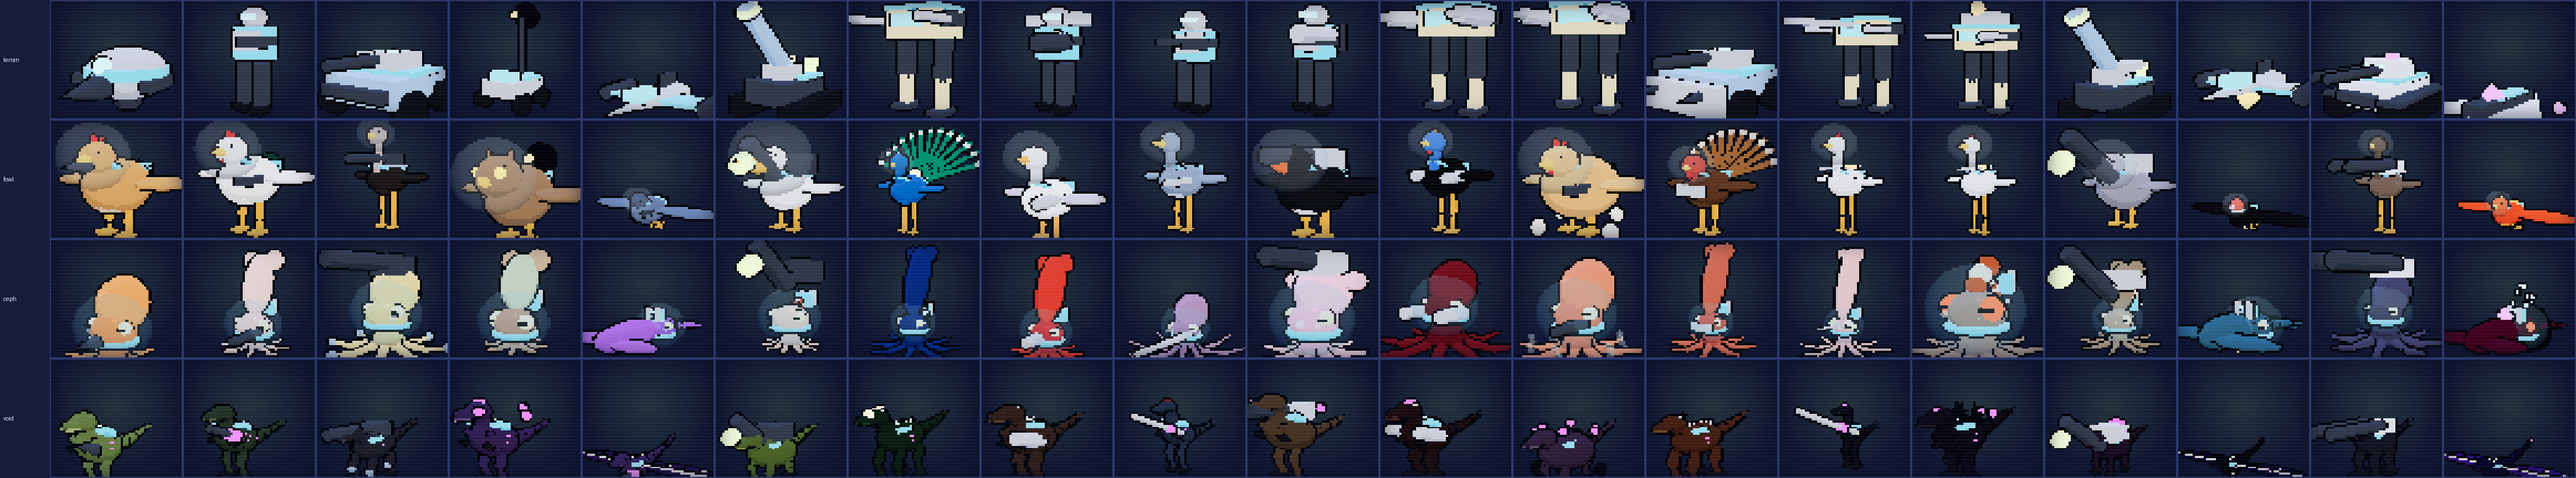
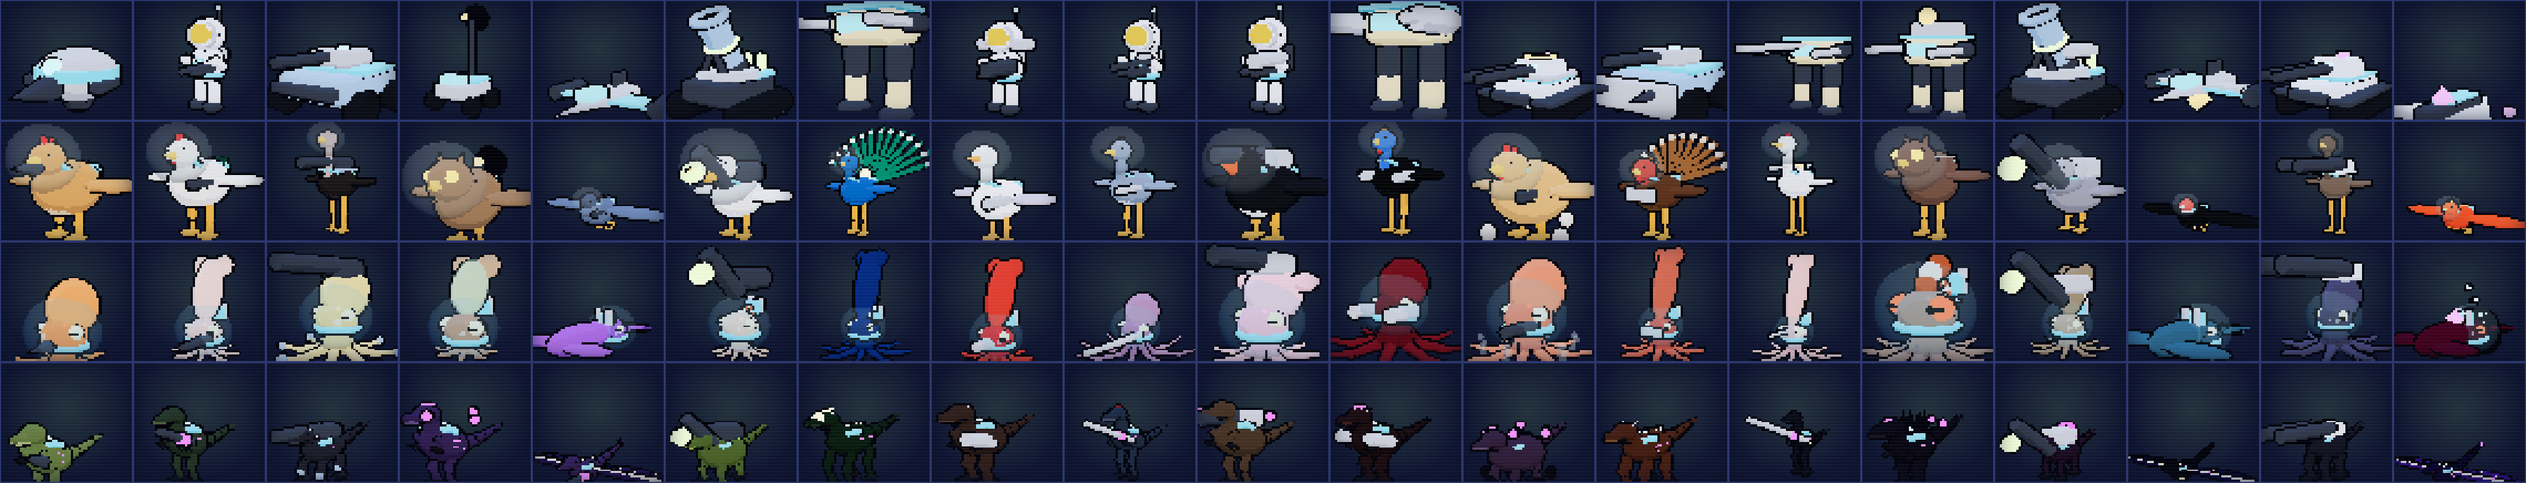
Cuter, rounder models: astronaut trooper, proper mortar
Every box in every model is now a rounded block and cylinders get at
least 16 sides. The human trooper is a chibi astronaut with a big
helmet and gold visor; the mortar is a fat tube on a base plate with a
bipod; the walker has stubby legs; building pads are soft and lighter.

Claude-Session: https://claude.ai/code/session_01EJ8uiVfq7hyD8smDWGm7RG

diff --git a/public/index.html b/public/index.html
@@ -1146,6 +1146,7 @@ if(window.startSplash&&!/nointro/.test(location.search)&&(()=>{ try{ return loca
 <script type="importmap">{"imports":{"three":"https://cdn.jsdelivr.net/npm/three@0.160.0/build/three.module.js","three/addons/":"https://cdn.jsdelivr.net/npm/three@0.160.0/examples/jsm/"}}</script>
 <script type="module">
 import * as THREE from 'three';
+import { RoundedBoxGeometry } from 'three/addons/geometries/RoundedBoxGeometry.js';
 
 /* =====================================================================
    ANDROMEDAS: RTS on a spherical asteroid with a diggable layered crust
@@ -1723,7 +1724,7 @@ const UDEF = {
     desc:'Helium-lift gunship. Flies over mounds and ridges. Rovers and mortars cannot hit it.' },
   mortar: { name:'Radium mortar', hp:120, speed:2.6, dmg:24, range:11, minRange:3, cd:3.8, splash:1.5, sight:9, supply:3, cost:{gold:90,ore:80,rad:20}, time:26, r:0.55, h:1.1, icon:'mortar', hot:'Q', shot:'mortar', groundOnly:true,
     desc:'Radium-fired artillery. Out-ranges everything, but cannot fire at targets closer than 3 or at aircraft.' },
-  walker: { name:'Aurum walker', hp:450, speed:2.3, dmg:34, range:7.5, cd:2.3, splash:1.4, sight:10.5, supply:6, cost:{gold:150,ore:200,ti:30,pt:25}, time:34, r:0.82, h:2.2, icon:'walker', hot:'W', shot:'beam',
+  walker: { name:'Aurum walker', hp:450, speed:2.3, dmg:34, range:7.5, cd:2.3, splash:1.4, sight:10.5, supply:6, cost:{gold:150,ore:200,ti:30,pt:25}, time:34, r:0.82, h:1.9, icon:'walker', hot:'W', shot:'beam',
     desc:'Platinum-cored siege walker. Long-range beam that flattens structures.' },
   breacher: { name:'Breacher', hp:110, speed:3.5, dmg:12.5, range:2.8, cd:1.1, splash:0.7, sight:7, supply:2, cost:{gold:60,ore:60}, time:18, r:0.36, h:1.35, icon:'breacher', hot:'W', shot:'bullet', model:'marine', scale:1.18, spec:true,
     desc:'Close-assault trooper with a scatter cannon. Tough and short-ranged; shreds infantry up close.' },
@@ -1787,6 +1788,9 @@ function mk(g, m, x=0,y=0,z=0, parent){ const o=new THREE.Mesh(g,m); o.position.
 const MAT = {
   hull: std({ color:0xb9bec4, roughness:0.45, metalness:0.6 }),
   hullDark: std({ color:0x3a3f46, roughness:0.6, metalness:0.5 }),
+  pad: std({ color:0x5a6488, roughness:0.75, metalness:0.2 }),
+  suit: std({ color:0xf1efff, roughness:0.7, metalness:0.05 }),
+  visor: std({ color:0x6a4a10, emissive:0xffcf3a, emissiveIntensity:0.55, roughness:0.15, metalness:0.7 }),
   rubber: std({ color:0x1b1c1f, roughness:0.95 }),
   ti: std({ color:0x8fb3d9, roughness:0.3, metalness:0.85, envMapIntensity:1.3 }),
   pt: std({ color:0xe9d49a, roughness:0.22, metalness:0.92, envMapIntensity:1.5 }),
@@ -1803,8 +1807,9 @@ const MAT = {
   ir: std({ color:0xdfe6f5, roughness:0.18, metalness:0.95, envMapIntensity:1.6 }),
   xen: std({ color:0x2a0f40, emissive:0xb86bff, emissiveIntensity:2.4, roughness:0.15, metalness:0.3 }),
 };
-const box=(w,h,d)=>geo(`b${w},${h},${d}`,()=>new THREE.BoxGeometry(w,h,d));
-const cyl=(t,b,h,s=16)=>geo(`c${t},${b},${h},${s}`,()=>new THREE.CylinderGeometry(t,b,h,s));
+/* every box is a soft, rounded block: corners take about a quarter of the shortest side, so nothing reads as a crate */
+const box=(w,h,d)=>geo(`b${w},${h},${d}`,()=>{ const r=Math.min(w,h,d)*0.28; return r<0.012?new THREE.BoxGeometry(w,h,d):new RoundedBoxGeometry(w,h,d,2,r); });
+const cyl=(t,b,h,s=16)=>{ s=Math.max(s,16); return geo(`c${t},${b},${h},${s}`,()=>new THREE.CylinderGeometry(t,b,h,s)); };
 const sph=(r,w=16,h=12)=>geo(`s${r},${w},${h}`,()=>new THREE.SphereGeometry(r,w,h));
 
 /* path units reuse a base body, then add their own kit and metal accents */
@@ -1824,9 +1829,9 @@ function decorateUnit(type,r,t){
     const ring=mk(geo('megaRing',()=>new THREE.TorusGeometry(0.34,0.05,6,24).rotateX(Math.PI/2)),glow,0,top*0.95,0,g); ring.castShadow=false; parts.halo=ring;
     if(type==='bastion'){ const dome=new THREE.Mesh(geo('shieldDome',()=>new THREE.SphereGeometry(1.35,20,10,0,Math.PI*2,0,Math.PI/2)),new THREE.MeshBasicMaterial({ color:TEAMC[t].clone().multiplyScalar(0.8), transparent:true, opacity:0.12, depthWrite:false, side:THREE.DoubleSide })); dome.position.y=0.3; g.add(dome); parts.dome=dome; mk(box(1.3,0.1,1.3),acc,0,1.0,0,g); }
     else if(type==='rhino'){ mk(box(1.0,0.34,0.14),acc,0,0.36,0.74,g); for(const s of [-1,1]) mk(geo('horn',()=>new THREE.ConeGeometry(0.07,0.32,6).rotateX(Math.PI/2)),MAT.hullDark,0.3*s,0.42,0.9,g); }
-    else if(type==='warlord'){ for(const s of [-1,1]) mk(geo('wlGun',()=>new THREE.CylinderGeometry(0.12,0.15,0.7,10).rotateX(Math.PI/2)),acc,0.62*s,1.65,0.55,g); }
-    else if(type==='longbow'){ mk(box(0.1,0.1,2.2),acc,0,1.75,0.9,g); mk(box(0.24,0.16,0.3),glow,0,1.75,-0.2,g); }
-    else if(type==='sentinel'){ mk(box(0.8,0.3,0.6),acc,0,2.0,0,g); const d=mk(sph(0.16,12,8),glow,0,2.25,0.3,g); d.castShadow=false; }
+    else if(type==='warlord'){ for(const s of [-1,1]) mk(geo('wlGun',()=>new THREE.CylinderGeometry(0.12,0.15,0.7,10).rotateX(Math.PI/2)),acc,0.62*s,1.35,0.55,g); }
+    else if(type==='longbow'){ mk(box(0.1,0.1,2.2),acc,0,1.45,0.9,g); mk(box(0.24,0.16,0.3),glow,0,1.45,-0.2,g); }
+    else if(type==='sentinel'){ mk(box(0.8,0.3,0.6),acc,0,1.7,0,g); const d=mk(sph(0.16,12,8),glow,0,1.95,0.3,g); d.castShadow=false; }
     else if(type==='inferno'){ mk(box(0.5,0.12,0.5),acc,0,0.75,-0.1,g); }
     else if(type==='stormwing'){ const k=mk(geo('swCore',()=>new THREE.OctahedronGeometry(0.2,0)),glow,0,-0.12,0,body); k.castShadow=false; mk(box(1.6,0.04,0.3),acc,0,0.04,-0.15,body); }
     else if(type==='juggernaut'||type==='seraph'){ /* own model already */ }
@@ -1856,12 +1861,22 @@ function buildUnitModel0(type,t){
     const jet=mk(geo('jet',()=>new THREE.CircleGeometry(0.085,12).rotateX(Math.PI/2)),MAT.glow[t],0,-0.255,0,body); jet.castShadow=false;
     const cargo=mk(geo('cargoG',()=>new THREE.DodecahedronGeometry(0.14,0)),MAT.cargo[0],0,0.17,-0.17,body); cargo.visible=false; P.cargo=cargo;
   } else if(type==='marine'){
-    const legs=[]; for(const s of [-1,1]){ const hip=new THREE.Group(); hip.position.set(0.1*s,0.56,0); g.add(hip); mk(box(0.12,0.5,0.14),MAT.hullDark,0,-0.25,0,hip); mk(box(0.14,0.08,0.2),MAT.rubber,0,-0.52,0.03,hip); legs.push(hip); } P.legs=legs;
-    const up=new THREE.Group(); up.position.y=0.56; g.add(up); P.body=up;
-    mk(box(0.38,0.36,0.24),MAT.team[t],0,0.22,0,up); mk(box(0.3,0.22,0.06),MAT.hull,0,0.24,0.13,up);
-    mk(box(0.26,0.3,0.14),MAT.hullDark,0,0.22,-0.18,up);
-    mk(sph(0.13,14,10),MAT.hull,0,0.5,0,up); mk(box(0.18,0.06,0.06),MAT.glow[t],0,0.51,0.1,up);
-    mk(box(0.07,0.09,0.55),MAT.hullDark,0.2,0.24,0.2,up); P.muzzle=new THREE.Vector3(0.2,0.8,0.5);
+    /* a chibi astronaut: stubby suited legs, a puffy suit, a life-support pack and a big round helmet with a gold visor */
+    const legs=[]; for(const s of [-1,1]){ const hip=new THREE.Group(); hip.position.set(0.1*s,0.4,0); g.add(hip);
+      mk(geo('aLeg',()=>new THREE.CapsuleGeometry(0.075,0.16,4,10).translate(0,-0.16,0)),MAT.suit,0,0,0,hip);
+      mk(geo('aBoot',()=>new THREE.SphereGeometry(0.1,12,8).scale(1,0.7,1.35)),MAT.hullDark,0,-0.33,0.03,hip); legs.push(hip); } P.legs=legs;
+    const up=new THREE.Group(); up.position.y=0.4; g.add(up); P.body=up;
+    mk(geo('aTorso',()=>new THREE.SphereGeometry(0.21,16,12).scale(1,1.08,0.85)),MAT.suit,0,0.2,0,up);
+    mk(geo('aBelt',()=>new THREE.TorusGeometry(0.18,0.035,6,18).rotateX(Math.PI/2)),MAT.team[t],0,0.08,0,up).scale.set(1,1,0.86);
+    mk(box(0.16,0.11,0.05),MAT.team[t],0,0.24,0.16,up); mk(sph(0.025,8,6),MAT.glow[t],0.04,0.25,0.19,up); mk(sph(0.025,8,6),MAT.ptGlow,-0.04,0.25,0.19,up);
+    mk(box(0.26,0.3,0.14),MAT.hull,0,0.24,-0.19,up); for(const x of [-0.07,0.07]) mk(cyl(0.045,0.045,0.26,10),MAT.team[t],x,0.25,-0.28,up);
+    for(const s of [-1,1]) mk(geo('aArm',()=>new THREE.CapsuleGeometry(0.06,0.14,4,10).rotateX(1.1)),MAT.suit,0.2*s,0.22,0.08,up);
+    mk(geo('aHelm',()=>new THREE.SphereGeometry(0.21,20,14)),MAT.suit,0,0.56,0,up);
+    mk(geo('aVisor',()=>new THREE.SphereGeometry(0.175,18,12,Math.PI*0.08,Math.PI*0.84,Math.PI*0.25,Math.PI*0.42)),MAT.visor,0,0.56,0.05,up);
+    mk(geo('aRim',()=>new THREE.TorusGeometry(0.17,0.03,6,20)),MAT.hull,0,0.56,0.11,up).scale.set(1,0.85,1);
+    mk(cyl(0.012,0.012,0.18,6),MAT.hullDark,0.12,0.8,-0.04,up); mk(sph(0.03,8,6),MAT.glow[t],0.12,0.9,-0.04,up);
+    mk(box(0.08,0.1,0.42),MAT.hullDark,0.13,0.17,0.24,up); mk(cyl(0.03,0.03,0.16,8).clone().rotateX(Math.PI/2),MAT.hullDark,0.13,0.19,0.52,up);
+    P.muzzle=new THREE.Vector3(0.13,0.6,0.6);
   } else if(type==='rover'){
     mk(box(0.95,0.32,1.25),MAT.ti,0,0.42,0,g); mk(box(0.97,0.06,0.8),MAT.team[t],0,0.6,-0.1,g);
     mk(box(0.8,0.12,0.2),MAT.hullDark,0,0.42,0.66,g);
@@ -1888,23 +1903,33 @@ function buildUnitModel0(type,t){
     mk(box(0.06,0.3,0.3),MAT.hullDark,0,0.15,-0.4,hull);
     P.muzzle=new THREE.Vector3(0,0,0.8);
   } else if(type==='mortar'){
-    for(const s of [-1,1]) mk(box(0.22,0.26,1.1),MAT.rubber,0.38*s,0.16,0,g);
-    mk(box(0.6,0.3,0.95),MAT.hullDark,0,0.38,0,g); mk(box(0.62,0.05,0.5),MAT.team[t],0,0.55,-0.15,g);
-    for(const x of [-0.18,0.18]) mk(cyl(0.08,0.08,0.34,10),MAT.radGlow,x,0.62,-0.32,g);
-    const tur=new THREE.Group(); tur.position.set(0,0.58,0.1); g.add(tur); P.turret=tur;
-    mk(box(0.36,0.2,0.36),MAT.hull,0,0.05,0,tur);
-    const bar=new THREE.Group(); bar.position.set(0,0.12,0); bar.rotation.x=-0.85; tur.add(bar); P.barrel=bar;
-    mk(geo('mbar',()=>new THREE.CylinderGeometry(0.1,0.13,1.0,12).translate(0,0.5,0).rotateX(Math.PI/2)),MAT.ti,0,0,0,bar);
-    mk(cyl(0.135,0.135,0.08,12).clone().rotateX(Math.PI/2),MAT.radGlow,0,0,0.95,bar);
-    P.muzzle=new THREE.Vector3(0,1.4,0.8);
+    /* a proper mortar: a short, fat, wide-mouthed tube set steeply up on a round base plate, held by a bipod, riding a little tracked carriage */
+    for(const s of [-1,1]){ mk(geo('mTrack',()=>new THREE.CapsuleGeometry(0.15,0.72,4,12).rotateX(Math.PI/2)),MAT.rubber,0.36*s,0.17,0,g);
+      for(const z of [-0.3,0,0.3]) mk(geo('mBogie',()=>new THREE.CylinderGeometry(0.09,0.09,0.06,12).rotateZ(Math.PI/2)),MAT.hullDark,0.45*s,0.15,z,g); }
+    mk(box(0.6,0.24,0.9),MAT.hullDark,0,0.36,0,g); mk(box(0.62,0.06,0.42),MAT.team[t],0,0.5,-0.2,g);
+    for(const x of [-0.17,0,0.17]){ mk(geo('mShell',()=>new THREE.CapsuleGeometry(0.055,0.12,4,10)),MAT.radGlow,x,0.62,-0.32,g); }
+    const tur=new THREE.Group(); tur.position.set(0,0.5,0.12); g.add(tur); P.turret=tur;
+    mk(geo('mPlate',()=>new THREE.CylinderGeometry(0.3,0.33,0.07,20)),MAT.hull,0,0.03,-0.08,tur);
+    const bar=new THREE.Group(); bar.position.set(0,0.1,-0.12); bar.rotation.x=-1.0; tur.add(bar); P.barrel=bar;
+    mk(geo('mBreech',()=>new THREE.SphereGeometry(0.16,16,10).scale(1,1,1.1)),MAT.hullDark,0,0,0,bar);
+    mk(geo('mTube',()=>new THREE.CylinderGeometry(0.15,0.15,0.62,18,1,true).translate(0,0.31,0).rotateX(Math.PI/2)),MAT.ti,0,0,0,bar);
+    mk(geo('mBore',()=>new THREE.CircleGeometry(0.14,18)),MAT.rubber,0,0,0.61,bar);
+    mk(geo('mLip',()=>new THREE.TorusGeometry(0.155,0.04,8,20)),MAT.ti,0,0,0.62,bar);
+    mk(geo('mBand',()=>new THREE.TorusGeometry(0.155,0.03,6,20)),MAT.radGlow,0,0,0.3,bar);
+    /* bipod: two legs from under the tube's middle splay down to the deck, whatever the elevation */
+    for(const s of [-1,1]){ const dir=new THREE.Vector3(0.45*s,-Math.cos(1.0),-Math.sin(1.0)).normalize();
+      const leg=mk(geo('mBipod',()=>new THREE.CylinderGeometry(0.028,0.028,0.4,6).translate(0,-0.2,0)),MAT.hullDark,0,-0.12,0.34,bar); leg.quaternion.setFromUnitVectors(new THREE.Vector3(0,-1,0),dir);
+      mk(sph(0.045,8,6),MAT.hullDark,0,-0.12,0.34,bar).position.addScaledVector(dir,0.4); }
+    P.muzzle=new THREE.Vector3(0,1.25,0.6);
   } else if(type==='walker'){
-    const hip=new THREE.Group(); hip.position.y=1.35; g.add(hip); P.body=hip;
+    const hip=new THREE.Group(); hip.position.y=1.05; g.add(hip); P.body=hip;
     mk(box(0.95,0.5,0.85),MAT.pt,0,0.25,0,hip); mk(box(1.0,0.08,0.9),MAT.team[t],0,0.52,0,hip);
     mk(box(0.55,0.22,0.12),MAT.glass,0,0.3,0.45,hip); const core=mk(sph(0.17,14,10),MAT.ptGlow,0,0.2,-0.45,hip); core.castShadow=false; P.core=core;
     for(const s of [-1,1]){ mk(box(0.18,0.2,0.4),MAT.hullDark,0.6*s,0.3,0.1,hip); mk(geo('wcan',()=>new THREE.CylinderGeometry(0.06,0.06,0.9,10).rotateX(Math.PI/2)),MAT.hull,0.6*s,0.3,0.6,hip); }
-    const legs=[]; for(const s of [-1,1]){ const th=new THREE.Group(); th.position.set(0.36*s,1.35,0); g.add(th); mk(box(0.2,0.72,0.24),MAT.hullDark,0,-0.36,0,th);
-      const sh=new THREE.Group(); sh.position.y=-0.7; th.add(sh); mk(box(0.16,0.68,0.2),MAT.pt,0,-0.3,0,sh); mk(box(0.3,0.1,0.44),MAT.hullDark,0,-0.62,0.05,sh); legs.push({th,sh}); }
-    P.legs=legs; P.muzzle=new THREE.Vector3(0,1.65,1.1);
+    /* stubby, chunky legs and round feet: a toy walker, not a stilt-walker */
+    const legs=[]; for(const s of [-1,1]){ const th=new THREE.Group(); th.position.set(0.34*s,1.05,0); g.add(th); mk(box(0.28,0.52,0.3),MAT.hullDark,0,-0.24,0,th);
+      const sh=new THREE.Group(); sh.position.y=-0.48; th.add(sh); mk(box(0.26,0.44,0.28),MAT.pt,0,-0.2,0,sh); mk(geo('wFoot',()=>new THREE.SphereGeometry(0.22,14,8,0,Math.PI*2,0,Math.PI/2).scale(1,0.6,1.3)),MAT.hullDark,0,-0.5,0.05,sh); legs.push({th,sh}); }
+    P.legs=legs; P.muzzle=new THREE.Vector3(0,1.35,1.1);
   } else if(type==='juggernaut'){
     for(const s of [-1,1]){ mk(box(0.42,0.5,2.1),MAT.rubber,0.72*s,0.3,0,g); mk(box(0.46,0.1,2.15),MAT.hullDark,0.72*s,0.58,0,g); }
     mk(box(1.2,0.55,1.9),MAT.ir,0,0.62,0,g); mk(box(1.24,0.08,1.4),MAT.team[t],0,0.93,-0.1,g);
@@ -1940,7 +1965,7 @@ function buildBuildingModel(type,t){
 }
 function buildBuildingModel0(type,t){
   const g=new THREE.Group(), P={}; const def=BDEF[type], s=def.size; type=def.model||type;
-  mk(box(s-0.08,0.5,s-0.08),MAT.hullDark,0,-0.05,0,g);
+  mk(geo(`pad${s}`,()=>new RoundedBoxGeometry(s-0.08,0.5,s-0.08,3,0.24)),MAT.pad,0,-0.05,0,g);
   if(type==='cc'){
     mk(cyl(1.35,1.45,0.3,8),MAT.hullDark,0,0.3,0,g);
     mk(cyl(1.05,1.25,1.0,8),MAT.hull,0,0.9,0,g);
